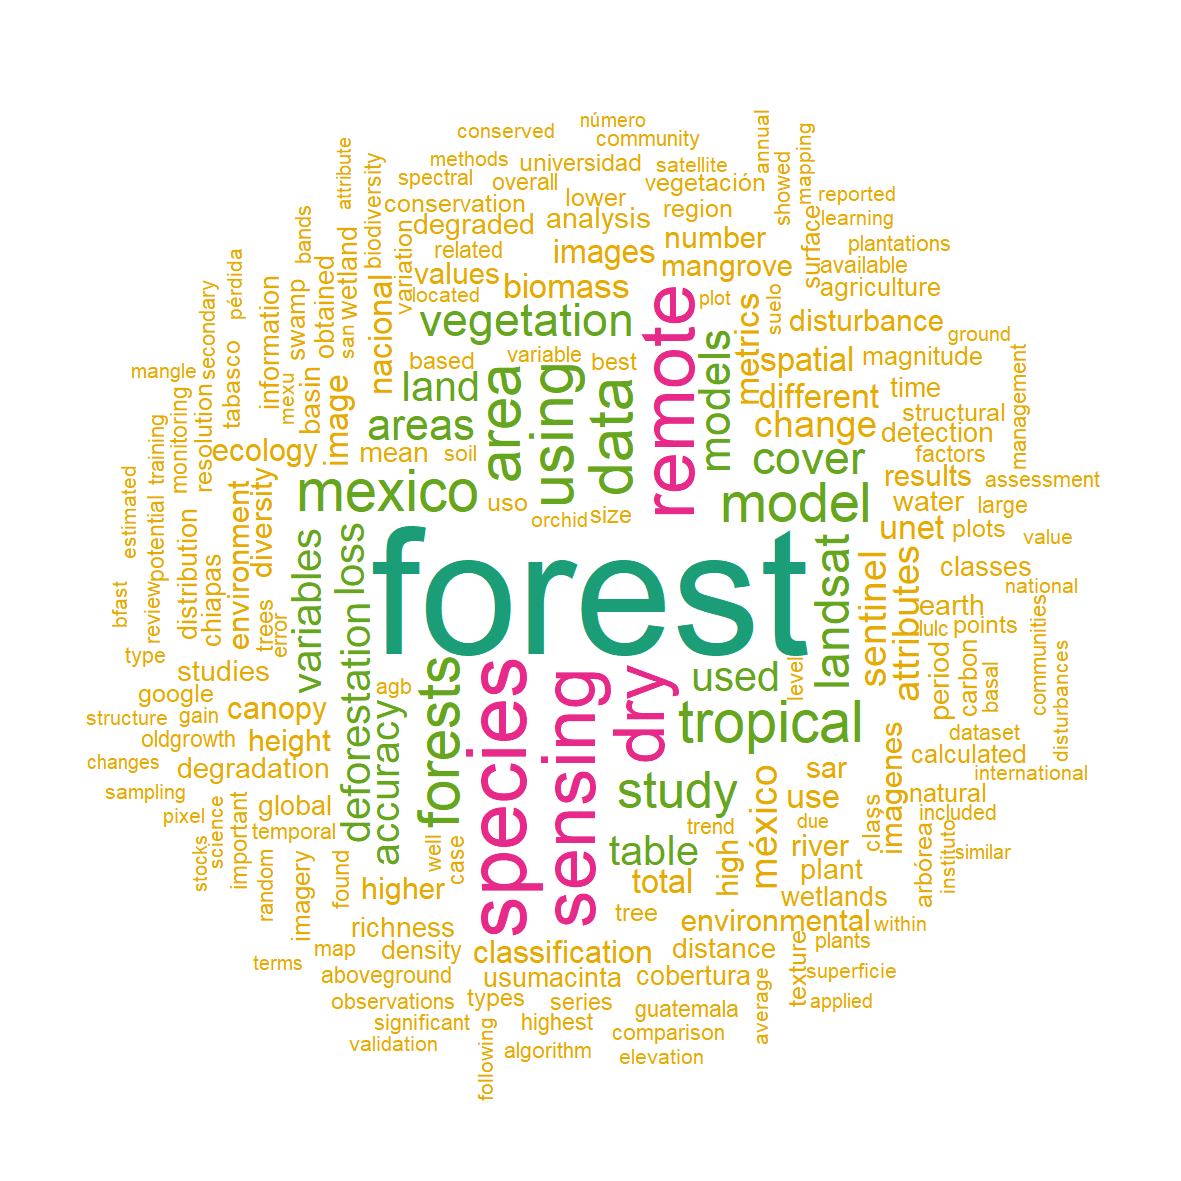
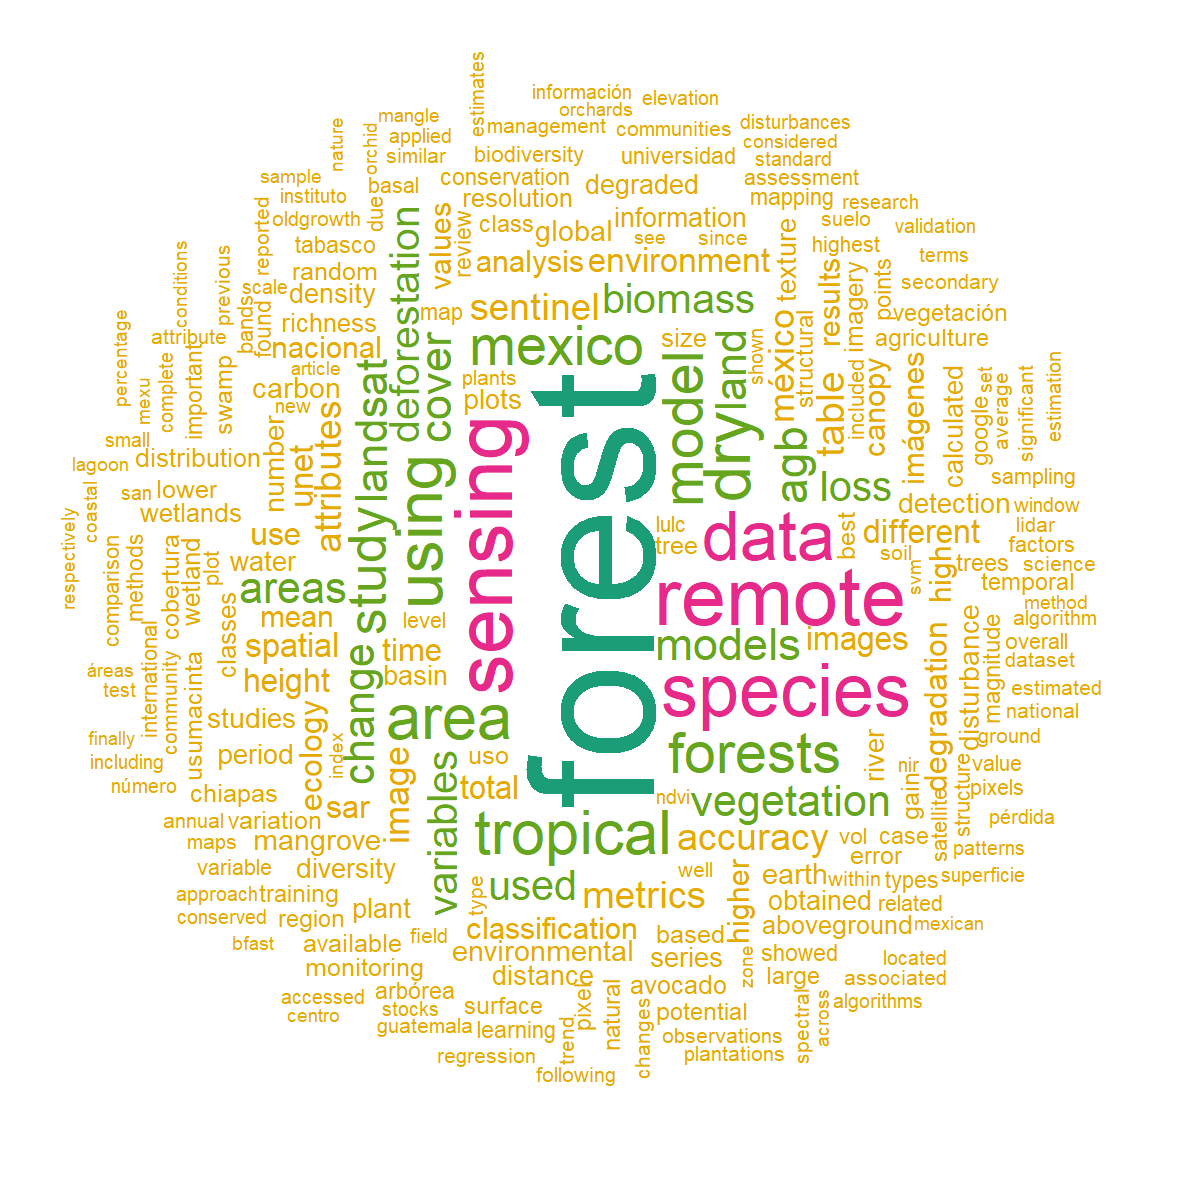
Update 2025 About and wordplot
Update wordplot and About gallery

Changed region(s): [[0.0305, 0.0305, 0.945, 0.945]]

diff --git a/_site/about/index.html b/_site/about/index.html
@@ -417,6 +417,18 @@
       </a>
     
   
+    
+      <a href="/assets/images/trajanalysis.jpeg" title="Trajectory analysis for land use land cover change associated with avocado orchards using CCDC and landsat images">
+          <img src="/assets/images/trajanalysis.jpeg" alt="trajanalysis" />
+      </a>
+    
+  
+    
+      <a href="/assets/images/Map2.jpeg" title="Aboveground biomass predictions and its variation based on LiDAR metrics (ALS) using a random forest algorithm.">
+          <img src="/assets/images/Map2.jpeg" alt="trajanalysis" />
+      </a>
+    
+  
   
 </figure>
 

diff --git a/_pages/about.md b/_pages/about.md
@@ -60,6 +60,14 @@ gallery:
     image_path: /assets/images/spectro.png
     alt: "spectro"
     title: "Spectrograms obtained using different thresholds (columns) for three different hours (rows) and its effect over a acoustic diversity index (final row)"
+  - url: /assets/images/trajanalysis.jpeg
+    image_path: /assets/images/trajanalysis.jpeg
+    alt: "trajanalysis"
+    title: "Trajectory analysis for land use land cover change associated with avocado orchards using CCDC and landsat images"
+  - url: /assets/images/Map2.jpeg
+    image_path: /assets/images/Map2.jpeg
+    alt: "trajanalysis"
+    title: "Aboveground biomass predictions and its variation based on LiDAR metrics (ALS) using a random forest algorithm."
 ---
 
 I am a biologist/geographer interested in studying tropical forests and their changes using remote sensing, from a discrete perspective (land use/land cover) to a continuous one (modeling forest attributes, such as aboveground biomass [AGB]).
